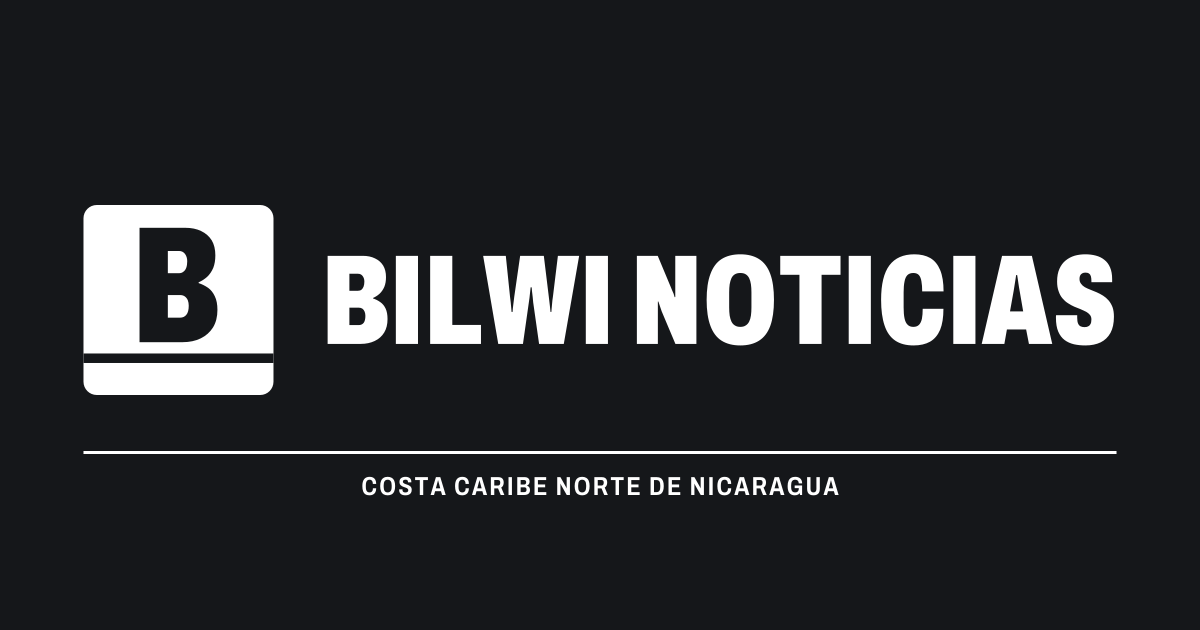
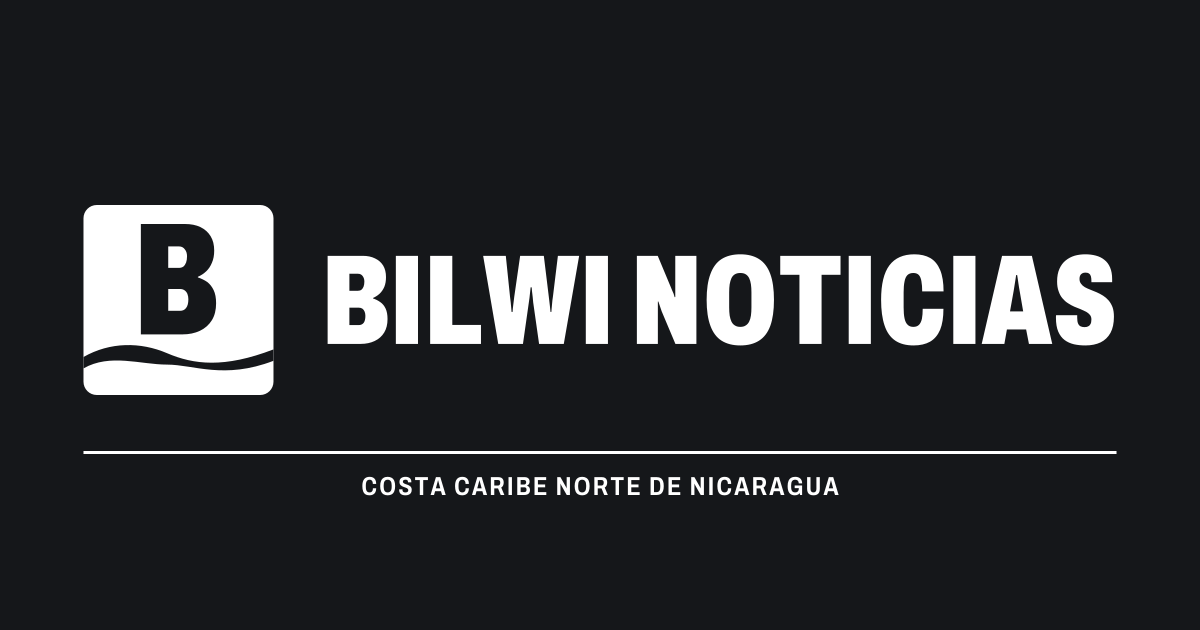
Isotipo «La Ola»: el horizonte de la ficha pasa a ser una ola suave
Se elige la alternativa D frente a «La Ficha», el monograma BN y el muelle.
Se regeneran desde scripts/marca todas las versiones (SVG y PNG), los íconos
de la app, la imagen para compartir, la imagen por defecto y los trazos del
componente; se actualizan /marca y DESIGN.md.

Changed region(s): [[0.0617, 0.3619, 0.2158, 0.6032], [0.1233, 0.3317, 0.1542, 0.3619]]

diff --git a/lib/brand-paths.ts b/lib/brand-paths.ts
@@ -3,8 +3,8 @@
 
 export const tile = 100;
 export const tilePath = "M7 0H93A7 7 0 0 1 100 7V93A7 7 0 0 1 93 100H7A7 7 0 0 1 0 93V7A7 7 0 0 1 7 0Z";
-export const isoB = "M29.5 72.2V12H53.6Q58.4 12 61.9 13.7Q65.5 15.4 67.5 18.6Q69.4 21.8 69.4 26.5Q69.4 30.3 68.3 33.1Q67.1 35.9 65.1 37.8Q63.1 39.6 60.6 40.7V41.1Q63.3 42 65.6 43.6Q67.8 45.2 69.1 48Q70.5 50.8 70.5 55.2Q70.5 60.6 68.2 64.4Q65.8 68.2 61.7 70.2Q57.6 72.2 52.2 72.2ZM44.4 59.3H50.8Q53 59.3 54.2 57.7Q55.4 56.2 55.4 53Q55.4 51.4 54.9 50.1Q54.3 48.8 53.3 48.1Q52.3 47.4 50.9 47.4H44.4ZM44.4 35.9H50.2Q51.7 35.9 52.6 35.1Q53.6 34.4 54.1 33Q54.6 31.6 54.6 29.6Q54.6 27.3 53.4 25.7Q52.2 24.2 50.3 24.2H44.4Z";
-export const isoBar = "M0 78.15H100V83.15H0Z";
+export const isoB = "M30.2 68.1V10H53.4Q58.1 10 61.5 11.6Q65 13.3 66.9 16.4Q68.8 19.5 68.8 24Q68.8 27.7 67.6 30.4Q66.5 33.1 64.6 34.9Q62.7 36.7 60.2 37.8V38.1Q62.9 39 65.1 40.5Q67.2 42.1 68.5 44.8Q69.8 47.5 69.8 51.7Q69.8 57 67.6 60.6Q65.3 64.3 61.3 66.2Q57.3 68.1 52.1 68.1ZM44.6 55.7H50.8Q52.9 55.7 54 54.2Q55.2 52.7 55.2 49.6Q55.2 48.1 54.7 46.8Q54.2 45.6 53.2 44.9Q52.2 44.2 50.8 44.2H44.6ZM44.6 33.1H50.2Q51.6 33.1 52.6 32.4Q53.5 31.6 54 30.3Q54.5 28.9 54.5 27Q54.5 24.7 53.3 23.3Q52.2 21.8 50.3 21.8H44.6Z";
+export const isoBar = "M0 80C14 72 30 72 44 78S74 86 100 76V82C74 92 58 84 44 84S14 78 0 86Z";
 export const bilwi = "M4.8 0V-68.8H32.3Q37.8 -68.8 41.8 -66.8Q45.9 -64.9 48.2 -61.2Q50.4 -57.5 50.4 -52.2Q50.4 -47.8 49.1 -44.6Q47.7 -41.4 45.5 -39.3Q43.2 -37.2 40.3 -35.9V-35.5Q43.4 -34.5 46 -32.6Q48.6 -30.8 50.1 -27.6Q51.6 -24.4 51.6 -19.4Q51.6 -13.2 49 -8.9Q46.3 -4.5 41.6 -2.3Q36.8 0 30.7 0ZM21.8 -14.7H29.1Q31.6 -14.7 33 -16.5Q34.3 -18.3 34.3 -21.9Q34.3 -23.7 33.7 -25.2Q33.1 -26.7 32 -27.5Q30.8 -28.3 29.2 -28.3H21.8ZM21.8 -41.5H28.4Q30.1 -41.5 31.2 -42.3Q32.3 -43.2 32.9 -44.8Q33.5 -46.4 33.5 -48.7Q33.5 -51.3 32.1 -53.1Q30.8 -54.8 28.5 -54.8H21.8ZM58.1 0V-68.8H75.4V0ZM84.9 0V-68.8H102.2V-14.8H124.6V0ZM138.1 0 126.3 -68.8H144L147.3 -36.8Q147.6 -34.9 147.8 -32.7Q148 -30.6 148.2 -28.6Q148.4 -26.5 148.5 -25H149.3Q149.4 -26.1 149.5 -27.7Q149.7 -29.3 149.9 -31.1Q150.2 -32.8 150.3 -34.3Q150.5 -35.9 150.6 -36.8L155.2 -68.8H173.7L177.6 -36.8Q177.8 -35.4 178 -33.4Q178.2 -31.3 178.5 -29.1Q178.7 -26.9 178.9 -25H179.6Q179.7 -26 179.8 -27.5Q180 -29.1 180.1 -30.8Q180.2 -32.5 180.4 -34Q180.6 -35.6 180.8 -36.8L184.7 -68.8H201.3L189.3 0H170L165.4 -32.4Q165.2 -34.5 165 -36.7Q164.7 -38.9 164.5 -40.9Q164.3 -42.9 164.2 -44.2H163.4Q163.3 -42.7 163 -40.5Q162.8 -38.2 162.5 -36Q162.2 -33.8 162 -32.4L157.4 0ZM206.5 0V-68.8H223.8V0Z";
 export const noticias = "M246.4 0V-68.8H262.7L273.1 -43.9Q273.5 -42.9 274 -41.7Q274.5 -40.5 275.1 -39.2Q275.6 -37.8 275.9 -36.5L276.4 -36.6Q276.4 -38.5 276.4 -40.4Q276.4 -42.3 276.4 -43.9V-68.8H292.9V0H276.5L265.8 -25.4Q265.1 -27.2 264.5 -29.2Q263.8 -31.2 263.2 -33.1L262.8 -33.1Q262.8 -31.2 262.8 -29.2Q262.8 -27.1 262.8 -25.4V0ZM327.2 1.2Q318.5 1.2 312.6 -2.5Q306.8 -6.2 303.9 -14Q300.9 -21.9 300.9 -34.4Q300.9 -46.9 303.9 -54.7Q306.8 -62.6 312.6 -66.3Q318.5 -70 327.2 -70Q336 -70 341.8 -66.3Q347.7 -62.6 350.6 -54.7Q353.5 -46.9 353.5 -34.4Q353.5 -21.9 350.6 -14Q347.7 -6.2 341.8 -2.5Q336 1.2 327.2 1.2ZM327.2 -13.3Q329.8 -13.3 331.4 -14.4Q333.1 -15.4 334.1 -17.4Q335.1 -19.3 335.5 -22.1Q335.9 -24.9 335.9 -28.5V-40.3Q335.9 -43.8 335.5 -46.6Q335.1 -49.4 334.1 -51.4Q333.1 -53.4 331.4 -54.4Q329.8 -55.4 327.2 -55.4Q324.7 -55.4 323 -54.4Q321.3 -53.4 320.3 -51.4Q319.4 -49.4 318.9 -46.6Q318.5 -43.8 318.5 -40.3V-28.5Q318.5 -24.9 318.9 -22.1Q319.4 -19.3 320.3 -17.4Q321.3 -15.4 323 -14.4Q324.7 -13.3 327.2 -13.3ZM373.4 0V-54H358.4V-68.8H405.5V-54H390.7V0ZM411.9 0V-68.8H429.2V0ZM462.6 1.2Q453.8 1.2 448.2 -2.6Q442.5 -6.5 439.9 -14.4Q437.2 -22.3 437.2 -34.5Q437.2 -52.7 443.7 -61.4Q450.2 -70 463.2 -70Q470.5 -70 475.6 -67.1Q480.6 -64.2 483.3 -57.8Q486 -51.4 486 -41H469.3Q469.3 -45.7 468.7 -48.9Q468.2 -52.1 466.7 -53.8Q465.2 -55.4 462.4 -55.4Q459.5 -55.4 457.8 -53.8Q456.1 -52.1 455.5 -48.7Q454.8 -45.4 454.8 -40.3V-28.5Q454.8 -23.3 455.5 -20Q456.2 -16.6 457.9 -15Q459.5 -13.3 462.4 -13.3Q465.2 -13.3 466.8 -14.9Q468.4 -16.5 469.1 -19.7Q469.7 -22.8 469.7 -27.4H485.9Q485.9 -17.3 483.3 -11Q480.6 -4.7 475.4 -1.7Q470.2 1.2 462.6 1.2ZM493.6 0V-68.8H510.9V0ZM515.8 0 531.7 -68.8H555L570.9 0H552.7L550.5 -11.3H535.5L533.5 0ZM537.9 -25.4H548.2L545.4 -41.6Q545.2 -42.5 545 -43.9Q544.8 -45.4 544.5 -47.1Q544.3 -48.9 544 -50.6Q543.7 -52.4 543.5 -53.8H542.7Q542.4 -52 542.1 -49.8Q541.8 -47.5 541.4 -45.4Q541.1 -43.2 540.8 -41.6ZM596.8 1.2Q592 1.2 587.9 0.3Q583.7 -0.7 580.6 -3Q577.4 -5.4 575.6 -9.6Q573.8 -13.8 573.8 -20.4Q573.8 -20.7 573.8 -21.3Q573.8 -22 573.9 -22.4H590.4Q590.4 -21.9 590.4 -21.4Q590.4 -20.9 590.4 -20.4Q590.4 -17.5 591.1 -15.9Q591.8 -14.3 593.1 -13.7Q594.4 -13.1 596.2 -13.1Q597.2 -13.1 598 -13.3Q598.8 -13.6 599.5 -14Q600.2 -14.5 600.6 -15.2Q601.1 -15.9 601.3 -16.9Q601.5 -17.9 601.5 -19.1Q601.5 -21.2 600.4 -22.6Q599.3 -24 597.4 -25.1Q595.5 -26.1 593.1 -27.1Q590.7 -28 588.1 -29.1Q585.6 -30.2 583.2 -31.8Q580.8 -33.3 578.9 -35.6Q577 -37.8 575.9 -41.1Q574.7 -44.3 574.7 -48.8Q574.7 -54.6 576.5 -58.6Q578.3 -62.7 581.4 -65.2Q584.5 -67.7 588.4 -68.9Q592.4 -70 596.7 -70Q601.1 -70 604.9 -69Q608.8 -68 611.6 -65.7Q614.5 -63.5 616.1 -59.7Q617.7 -56 617.7 -50.6V-48.2H601.5V-49.3Q601.5 -51.3 601.1 -52.8Q600.7 -54.2 599.7 -54.9Q598.7 -55.7 596.9 -55.7Q595.3 -55.7 594.3 -55.1Q593.2 -54.5 592.7 -53.4Q592.2 -52.4 592.2 -50.8Q592.2 -48.5 593.4 -47Q594.5 -45.4 596.4 -44.3Q598.4 -43.2 600.8 -42.3Q603.1 -41.3 605.7 -40.3Q608.2 -39.2 610.6 -37.7Q613 -36.2 614.9 -34Q616.8 -31.8 618 -28.7Q619.1 -25.6 619.1 -21.2Q619.1 -13.6 616.4 -8.6Q613.6 -3.6 608.7 -1.2Q603.7 1.2 596.8 1.2Z";
 export const wordWidth = 621.12;

diff --git a/app/marca/page.tsx b/app/marca/page.tsx
@@ -72,7 +72,7 @@ const colors = [
 const misuse = [
   "Cambiar los colores fuera de las versiones de esta página.",
   "Estirar, inclinar o girar el logo.",
-  "Quitar la línea del horizonte o separar la B de la ficha.",
+  "Quitar la ola, cambiar su forma o separar la B de la ficha.",
   "Escribir el nombre con otra letra en lugar de usar el archivo.",
   "Poner la versión positiva sobre fondos oscuros o fotos recargadas.",
   "Agregar sombras, contornos o efectos.",
@@ -87,7 +87,7 @@ export default function MarcaPage() {
             <h1 id="marca-title" className="section-board-name">
               Identidad visual
             </h1>
-            <p className="section-board-title">La ficha del tablero</p>
+            <p className="section-board-title">La ficha y la ola</p>
             <p className="section-board-desc">
               Logotipo, isotipo, versiones y colores de Bilwi Noticias, con los archivos listos para usar.
             </p>
@@ -108,8 +108,9 @@ export default function MarcaPage() {
                 costa: un cuadro oscuro con la <strong>B</strong> de Bilwi calada.
               </p>
               <p>
-                La línea que cruza la ficha de lado a lado cumple dos papeles. Es la regla gruesa que abre cada sección del
-                periódico y es el horizonte del Caribe frente a Puerto Cabezas, sobre el que se apoya la B.
+                Bajo la B, una sola ola suave cruza la ficha de lado a lado: es el horizonte del Caribe frente a Puerto
+                Cabezas. Es una línea, no un dibujo del mar, así que el símbolo sigue siendo sobrio y legible incluso del
+                tamaño de un ícono.
               </p>
               <p>
                 El nombre usa Archivo condensada en su peso más fuerte, la misma letra de los titulares de sección del
@@ -126,7 +127,7 @@ export default function MarcaPage() {
                   <span className="tile tile--sm">2</span> La B calada de Bilwi
                 </li>
                 <li>
-                  <span className="tile tile--sm">3</span> La línea: regla de sección y horizonte
+                  <span className="tile tile--sm">3</span> La ola: el horizonte del Caribe
                 </li>
               </ul>
             </div>

diff --git a/scripts/marca/make_brand.py b/scripts/marca/make_brand.py
@@ -71,17 +71,19 @@ RADIUS = 7
 
 
 def isotipo_parts():
-    size = 60 / CAP  # B de 60 unidades de alto
+    size = 58 / CAP  # B de 58 unidades de alto
     xmin, ymin, xmax, ymax, adv = glyph_bounds(DISPLAY, "B", size)
     width = xmax - xmin
     x = (TILE - width) / 2 - xmin
-    top = 12
+    top = 10
     baseline = top + ymax
     b, _ = text_path(DISPLAY, "B", size, x=x, baseline=baseline)
-    # La línea del horizonte cruza la ficha de lado a lado: la B se apoya sobre ella.
-    bar_y = baseline + 6
-    bar = f"M0 {bar_y:.2f}H{TILE}V{bar_y + 5:.2f}H0Z"
-    return b, bar
+    # «La Ola»: el horizonte cruza la ficha de lado a lado como una sola ola suave.
+    wave = (
+        "M0 80C14 72 30 72 44 78S74 86 100 76"
+        "V82C74 92 58 84 44 84S14 78 0 86Z"
+    )
+    return b, wave
 
 
 ISO_B, ISO_BAR = isotipo_parts()

diff --git a/DESIGN.md b/DESIGN.md
@@ -320,7 +320,7 @@ The label reads Section (rubric teal, bold) · date · author, at 13px with tabu
 Inputs are 46px tall with 16px text, a 1px #868b91 border and 4px corners. Focus gives a teal border plus a 3px teal-wash halo. When invalid, the border turns red and a bold 14px message appears below. Labels always sit above the field, and optional hints follow in Ink 3.
 
 ### Logo and isotipo (signature)
-The isotipo, **"La Ficha"**, is a board tile (100×100, 7-unit corners) with a cut-out condensed **B**. A full-width horizon line crosses the tile under the B. That line is the 3px section rule and the Caribbean horizon at once. The logotipo is "BILWI NOTICIAS" in Archivo wdth 68 / wght 850, converted to paths: "BILWI" in ink and "NOTICIAS" in rubric teal. There are three lockups: horizontal (tile at 1.45× the cap height, gap of 0.28× the tile), vertical (tile on top, name in two centred lines) and the name alone. Each comes in five versions: positive, negative, black and white monochromes (the cut shows the ground) and a teal tile. Files are in `public/marca/` (SVG and PNG) and the guidelines live at `/marca`. In the UI, `components/brand.tsx` draws it with three tokens (`--logo-ink`, `--logo-accent`, `--logo-cut`). On paper they are ink, teal and paper. On board surfaces (footer, sidebar, login, section headers) all three switch to the board's two values. Clear space is half the tile height. The minimum size is 24px tall for the horizontal lockup and 16px for the isotipo.
+The isotipo, **"La Ola"**, is a board tile (100×100, 7-unit corners) with a cut-out condensed **B**. Under the B a single gentle wave crosses the tile from edge to edge: the Caribbean horizon in front of Puerto Cabezas, drawn as one line rather than an illustration of the sea, so the mark stays sober and legible down to 16px. The logotipo is "BILWI NOTICIAS" in Archivo wdth 68 / wght 850, converted to paths: "BILWI" in ink and "NOTICIAS" in rubric teal. There are three lockups: horizontal (tile at 1.45× the cap height, gap of 0.28× the tile), vertical (tile on top, name in two centred lines) and the name alone. Each comes in five versions: positive, negative, black and white monochromes (the cut shows the ground) and a teal tile. Files are in `public/marca/` (SVG and PNG) and the guidelines live at `/marca`. In the UI, `components/brand.tsx` draws it with three tokens (`--logo-ink`, `--logo-accent`, `--logo-cut`). On paper they are ink, teal and paper. On board surfaces (footer, sidebar, login, section headers) all three switch to the board's two values. Clear space is half the tile height. The minimum size is 24px tall for the horizontal lockup and 16px for the isotipo.
 
 ### Theme toggle
 A 36px square button (32px in the masthead utility row, also on the login screen and the admin bar): moon in light mode, sun in dark mode, 1px line border that darkens on hover. The preference is saved for the whole site and kept in sync across open tabs.
